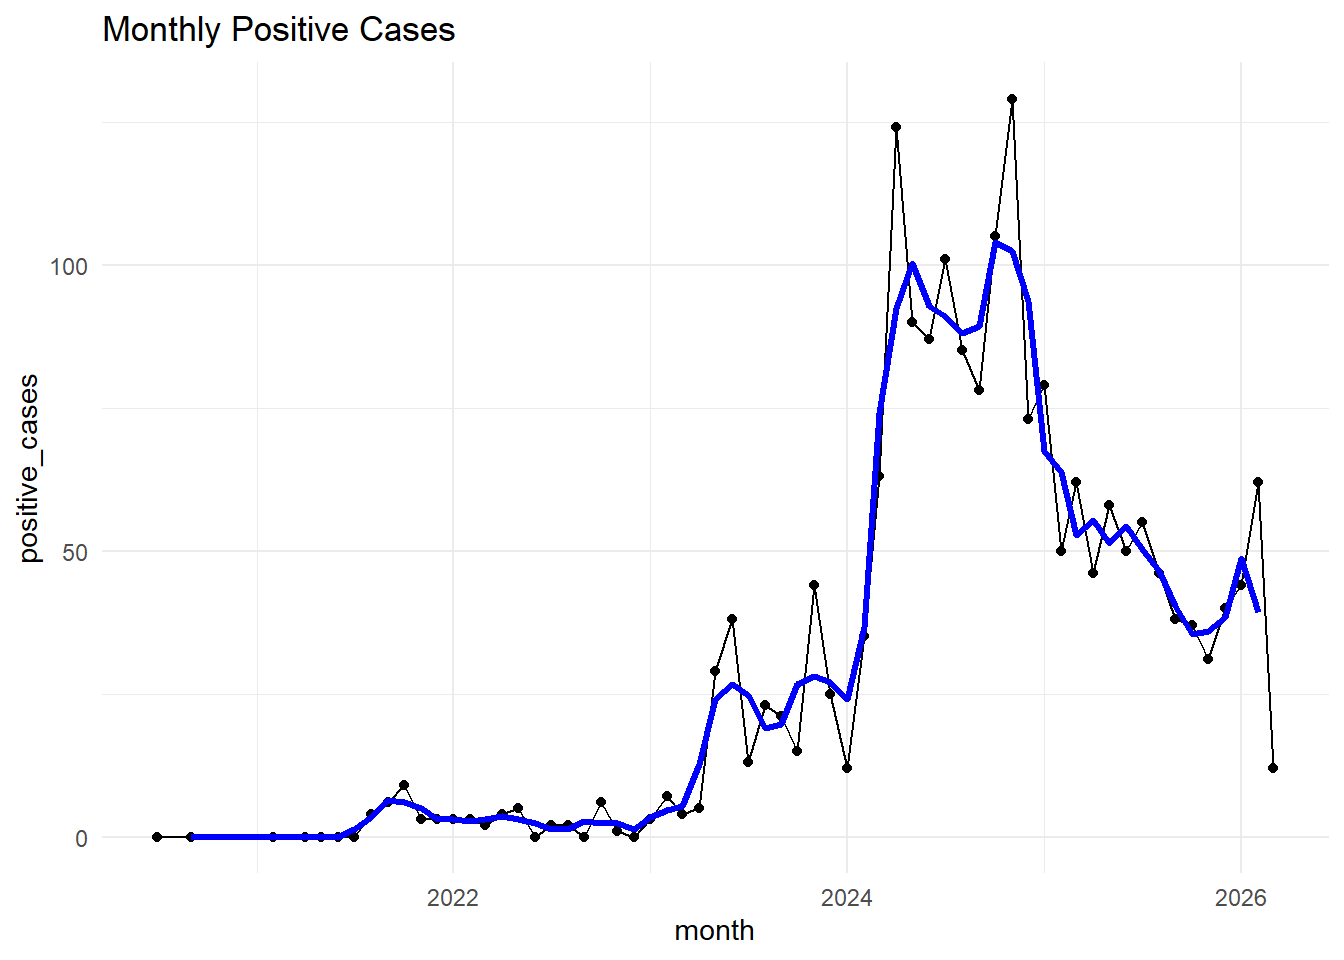
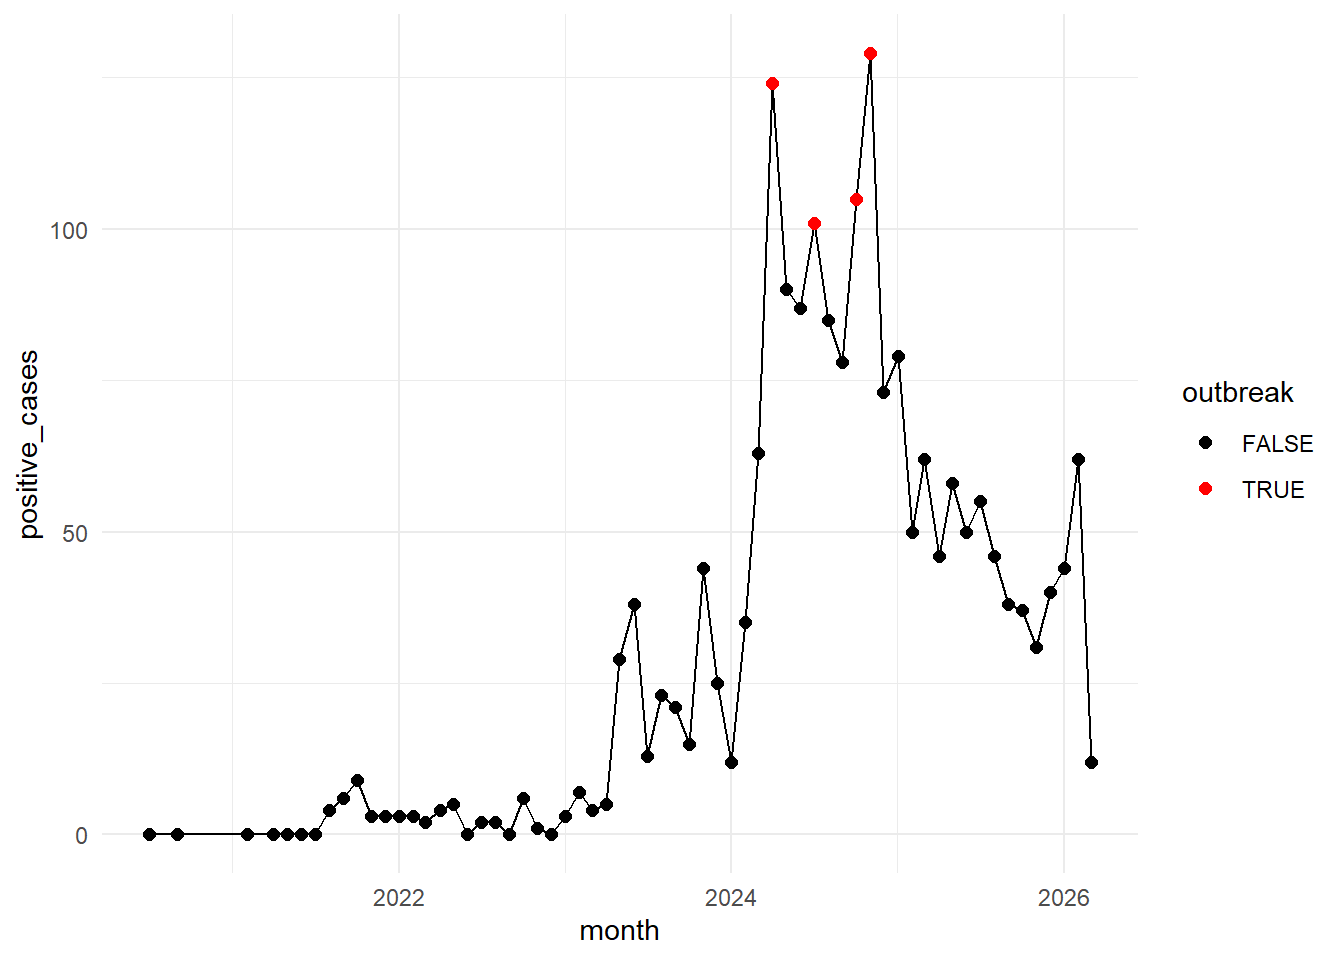
update

diff --git a/Wastewater Analysis.html b/Wastewater Analysis.html
@@ -7,7 +7,7 @@
 <meta name="viewport" content="width=device-width, initial-scale=1.0, user-scalable=yes">
 
 <meta name="author" content="">
-<meta name="dcterms.date" content="2026-05-28">
+<meta name="dcterms.date" content="2026-05-29">
 
 <title>Wastewater_HAV Analysis</title>
 <style>
@@ -99,7 +99,7 @@ pre > code.sourceCode > span > a:first-child::before { text-decoration: underlin
   <li><a href="#intraclass-correlation-for-district_name-variation" id="toc-intraclass-correlation-for-district_name-variation" class="nav-link" data-scroll-target="#intraclass-correlation-for-district_name-variation"><span class="header-section-number">2.2.2</span> Intraclass Correlation for District_name Variation</a></li>
   <li><a href="#intraclass-correlation-for-site_name-variation" id="toc-intraclass-correlation-for-site_name-variation" class="nav-link" data-scroll-target="#intraclass-correlation-for-site_name-variation"><span class="header-section-number">2.2.3</span> Intraclass Correlation for site_name Variation</a></li>
   </ul></li>
-  <li><a href="#three-level-hierarchical-analysis-based-on-the-selected-modlel" id="toc-three-level-hierarchical-analysis-based-on-the-selected-modlel" class="nav-link" data-scroll-target="#three-level-hierarchical-analysis-based-on-the-selected-modlel"><span class="header-section-number">2.3</span> Three-Level Hierarchical Analysis based on the selected Modlel</a>
+  <li><a href="#hierarchical-analysis-based-on-the-selected-modlel" id="toc-hierarchical-analysis-based-on-the-selected-modlel" class="nav-link" data-scroll-target="#hierarchical-analysis-based-on-the-selected-modlel"><span class="header-section-number">2.3</span> Hierarchical Analysis based on the selected Modlel</a>
   <ul class="collapse">
   <li><a href="#odds-ratios" id="toc-odds-ratios" class="nav-link" data-scroll-target="#odds-ratios"><span class="header-section-number">2.3.1</span> Odds Ratios</a></li>
   <li><a href="#visualization-of-model-results" id="toc-visualization-of-model-results" class="nav-link" data-scroll-target="#visualization-of-model-results"><span class="header-section-number">2.3.2</span> Visualization of Model Results</a></li>
@@ -138,7 +138,7 @@ pre > code.sourceCode > span > a:first-child::before { text-decoration: underlin
     <div>
     <div class="quarto-title-meta-heading">Published</div>
     <div class="quarto-title-meta-contents">
-      <p class="date">May 28, 2026</p>
+      <p class="date">May 29, 2026</p>
     </div>
   </div>
   
@@ -204,7 +204,21 @@ Table&nbsp;1: Summary Statistics
 </section>
 <section id="monthly-positive-trend-epidemic-curve" class="level3" data-number="2.1.2">
 <h3 data-number="2.1.2" class="anchored" data-anchor-id="monthly-positive-trend-epidemic-curve"><span class="header-section-number">2.1.2</span> Monthly positive Trend (Epidemic Curve)</h3>
-<p>As <a href="#fig-moncases" class="quarto-xref">Figure&nbsp;2</a> indicates, the monthly positivity trend of</p>
+<p>As <a href="#fig-moncases" class="quarto-xref">Figure&nbsp;3</a> indicates, the monthly positivity trend of</p>
+<div class="cell">
+<div class="cell-output-display">
+<div id="fig-ptrend" class="quarto-float quarto-figure quarto-figure-center anchored">
+<figure class="quarto-float quarto-float-fig figure">
+<div aria-describedby="fig-ptrend-caption-0ceaefa1-69ba-4598-a22c-09a6ac19f8ca">
+<img src="Wastewater-Analysis_files/figure-html/fig-ptrend-1.png" class="img-fluid figure-img" width="672">
+</div>
+<figcaption class="quarto-float-caption-bottom quarto-float-caption quarto-float-fig" id="fig-ptrend-caption-0ceaefa1-69ba-4598-a22c-09a6ac19f8ca">
+Figure&nbsp;1: Monthly Positivity Trend
+</figcaption>
+</figure>
+</div>
+</div>
+</div>
 </section>
 <section id="positive-by-province-and-district" class="level3" data-number="2.1.3">
 <h3 data-number="2.1.3" class="anchored" data-anchor-id="positive-by-province-and-district"><span class="header-section-number">2.1.3</span> Positive by province and district</h3>
@@ -403,6 +417,7 @@ Table&nbsp;3: Positivity Trend by District
 <h2 data-number="2.2" class="anchored" data-anchor-id="multilevel-logistic-regression"><span class="header-section-number">2.2</span> Multilevel Logistic Regression</h2>
 <section id="intraclass-correlation-for-site_province-variation" class="level3" data-number="2.2.1">
 <h3 data-number="2.2.1" class="anchored" data-anchor-id="intraclass-correlation-for-site_province-variation"><span class="header-section-number">2.2.1</span> Intraclass Correlation for site_province Variation</h3>
+<p>An intraclass correlation coefficient (ICC) of 0.033 means that about 3.3% of the total variance in the HAV is attributable to differences between site_province, while about 96.7% is due to differences within groups (individual-level variation).</p>
 <div class="cell">
 <div class="cell-output cell-output-stdout">
 <pre><code># Intraclass Correlation Coefficient
@@ -414,6 +429,7 @@ Table&nbsp;3: Positivity Trend by District
 </section>
 <section id="intraclass-correlation-for-district_name-variation" class="level3" data-number="2.2.2">
 <h3 data-number="2.2.2" class="anchored" data-anchor-id="intraclass-correlation-for-district_name-variation"><span class="header-section-number">2.2.2</span> Intraclass Correlation for District_name Variation</h3>
+<p>An intraclass correlation coefficient (ICC) of 0.054 means that about 5.4 % of the total variance in the HAV is attributable to differences between district level.</p>
 <div class="cell">
 <div class="cell-output cell-output-stdout">
 <pre><code># Intraclass Correlation Coefficient
@@ -425,6 +441,8 @@ Table&nbsp;3: Positivity Trend by District
 </section>
 <section id="intraclass-correlation-for-site_name-variation" class="level3" data-number="2.2.3">
 <h3 data-number="2.2.3" class="anchored" data-anchor-id="intraclass-correlation-for-site_name-variation"><span class="header-section-number">2.2.3</span> Intraclass Correlation for site_name Variation</h3>
+<p>An intraclass correlation coefficient (ICC) of 0.095 means that about 9.5 % of the total variance in the HAV is attributable to differences between district level.</p>
+<p>Overall:</p>
 <div class="cell">
 <div class="cell-output cell-output-stdout">
 <pre><code># Intraclass Correlation Coefficient
@@ -436,7 +454,7 @@ Table&nbsp;3: Positivity Trend by District
 <ul>
 <li><p>A mixed-effects logistic regression with a random intercept for province and district showed that variation across them (province-level ICC ≈ 3.3%, and district level ICC ≈ 5.4%), indicating some clustering of the outcome within provinces and districts.</p></li>
 <li><p>Relatively the variation is higher in site_name level (ICC ≈ 9.5%)</p></li>
-<li><p><a href="#tbl-mlrim" class="quarto-xref">Table&nbsp;4</a> indicates, model2; the three level mixed effects model better fits the data.</p></li>
+<li><p><a href="#tbl-mlrim" class="quarto-xref">Table&nbsp;4</a> indicates, model4; the three level mixed effects model better fits the data.</p></li>
 </ul>
 <div id="tbl-mlrim" class="cell quarto-float quarto-figure quarto-figure-center anchored">
 <figure class="quarto-float quarto-float-tbl figure">
@@ -454,9 +472,9 @@ model2 17 7547.032</code></pre>
 </div>
 </section>
 </section>
-<section id="three-level-hierarchical-analysis-based-on-the-selected-modlel" class="level2" data-number="2.3">
-<h2 data-number="2.3" class="anchored" data-anchor-id="three-level-hierarchical-analysis-based-on-the-selected-modlel"><span class="header-section-number">2.3</span> Three-Level Hierarchical Analysis based on the selected Modlel</h2>
-<p>From the advanced three level hierarchical modeling <a href="#tbl-m3lr" class="quarto-xref">Table&nbsp;5</a></p>
+<section id="hierarchical-analysis-based-on-the-selected-modlel" class="level2" data-number="2.3">
+<h2 data-number="2.3" class="anchored" data-anchor-id="hierarchical-analysis-based-on-the-selected-modlel"><span class="header-section-number">2.3</span> Hierarchical Analysis based on the selected Modlel</h2>
+<p>From the advanced three level hierarchical modeling <a href="#tbl-m3lr" class="quarto-xref">Table&nbsp;5</a>, a generalized linear mixed model with a random intercept for site was fitted to assess geographic predictors of HAV positivity. Site-level clustering was low (ICC ≈ ). Significant district-level differences were observed, with Buffalo City MM associated with lower odds of HAV positivity and Frances Baard DM associated with substantially higher odds. Province-level effects were not statistically significant after adjustment. The model exhibited rank deficiency due to collinearity between district and province variables.</p>
 <div id="tbl-m3lr" class="cell quarto-float quarto-figure quarto-figure-center anchored">
 <figure class="quarto-float quarto-float-tbl figure">
 <figcaption class="quarto-float-caption-top quarto-float-caption quarto-float-tbl" id="tbl-m3lr-caption-0ceaefa1-69ba-4598-a22c-09a6ac19f8ca">
@@ -625,7 +643,7 @@ Table&nbsp;6: Three level Multilevel Estimated Odds Ratio (OR)
 </section>
 <section id="visualization-of-model-results" class="level3" data-number="2.3.2">
 <h3 data-number="2.3.2" class="anchored" data-anchor-id="visualization-of-model-results"><span class="header-section-number">2.3.2</span> Visualization of Model Results</h3>
-<p>Visualization plot <a href="#fig-mr3" class="quarto-xref">Figure&nbsp;1</a></p>
+<p>Visualization plot <a href="#fig-mr3" class="quarto-xref">Figure&nbsp;2</a></p>
 <div class="cell">
 <div class="cell-output-display">
 <div id="fig-mr3" class="quarto-float quarto-figure quarto-figure-center anchored">
@@ -634,7 +652,7 @@ Table&nbsp;6: Three level Multilevel Estimated Odds Ratio (OR)
 <img src="Wastewater-Analysis_files/figure-html/fig-mr3-1.png" class="img-fluid figure-img" width="672">
 </div>
 <figcaption class="quarto-float-caption-bottom quarto-float-caption quarto-float-fig" id="fig-mr3-caption-0ceaefa1-69ba-4598-a22c-09a6ac19f8ca">
-Figure&nbsp;1: Visualization of three-level Model Results
+Figure&nbsp;2: Visualization of three-level Model Results
 </figcaption>
 </figure>
 </div>
@@ -643,6 +661,9 @@ Figure&nbsp;1: Visualization of three-level Model Results
 </section>
 <section id="model-diagnostics" class="level3" data-number="2.3.3">
 <h3 data-number="2.3.3" class="anchored" data-anchor-id="model-diagnostics"><span class="header-section-number">2.3.3</span> Model Diagnostics</h3>
+<ul>
+<li>Residual diagnostics indicated mild deviations from the expected residual distribution, although no significant overdispersion or strong outlier effects were detected. Remaining structure in residuals suggests that additional predictors, particularly temporal effects, may improve model fit.</li>
+</ul>
 <div class="cell">
 <div class="cell-output cell-output-stdout">
 <pre><code>[1] FALSE</code></pre>
@@ -650,14 +671,14 @@ Figure&nbsp;1: Visualization of three-level Model Results
 <div class="cell-output-display">
 <div>
 <figure class="figure">
-<p><img src="Wastewater-Analysis_files/figure-html/unnamed-chunk-12-1.png" class="img-fluid figure-img" width="672"></p>
+<p><img src="Wastewater-Analysis_files/figure-html/unnamed-chunk-11-1.png" class="img-fluid figure-img" width="672"></p>
 </figure>
 </div>
 </div>
 <div class="cell-output-display">
 <div>
 <figure class="figure">
-<p><img src="Wastewater-Analysis_files/figure-html/unnamed-chunk-12-2.png" class="img-fluid figure-img" width="672"></p>
+<p><img src="Wastewater-Analysis_files/figure-html/unnamed-chunk-11-2.png" class="img-fluid figure-img" width="672"></p>
 </figure>
 </div>
 </div>
@@ -673,7 +694,7 @@ alternative hypothesis: two.sided</code></pre>
 <div class="cell-output-display">
 <div>
 <figure class="figure">
-<p><img src="Wastewater-Analysis_files/figure-html/unnamed-chunk-12-3.png" class="img-fluid figure-img" width="672"></p>
+<p><img src="Wastewater-Analysis_files/figure-html/unnamed-chunk-11-3.png" class="img-fluid figure-img" width="672"></p>
 </figure>
 </div>
 </div>
@@ -696,7 +717,7 @@ frequency of outliers (expected: 0.00796812749003984 )
 </section>
 <section id="time-trend-analysis" class="level2" data-number="2.4">
 <h2 data-number="2.4" class="anchored" data-anchor-id="time-trend-analysis"><span class="header-section-number">2.4</span> Time Trend Analysis</h2>
-<p>Monthly hav case over time <a href="#fig-moncases" class="quarto-xref">Figure&nbsp;2</a> shows a clear shift from very low hav case counts in 2020/2021 to 2022 to a major surge beginning in early 2024, followed by a gradual decline with continued variability through 2025-2026.</p>
+<p>Monthly hav case over time <a href="#fig-moncases" class="quarto-xref">Figure&nbsp;3</a> shows a clear shift from very low hav case counts in 2020/2021 to 2022 to a major surge beginning in early 2024, followed by a gradual decline with continued variability through 2025-2026.</p>
 <ul>
 <li>Structural change beginning around 2023.A major epidemic wave in 2024.</li>
 <li>Transition in to a lower but still persistent transmission level afterward.</li>
@@ -714,7 +735,7 @@ frequency of outliers (expected: 0.00796812749003984 )
 <img src="Wastewater-Analysis_files/figure-html/fig-moncases-1.png" class="img-fluid figure-img" width="672">
 </div>
 <figcaption class="quarto-float-caption-bottom quarto-float-caption quarto-float-fig" id="fig-moncases-caption-0ceaefa1-69ba-4598-a22c-09a6ac19f8ca">
-Figure&nbsp;2: Monthly hav case over time
+Figure&nbsp;3: Monthly hav case over time
 </figcaption>
 </figure>
 </div>
@@ -722,11 +743,14 @@ Figure&nbsp;2: Monthly hav case over time
 </div>
 <section id="add-moving-average-line" class="level3" data-number="2.4.1">
 <h3 data-number="2.4.1" class="anchored" data-anchor-id="add-moving-average-line"><span class="header-section-number">2.4.1</span> Add Moving Average line</h3>
+<ul>
+<li>The monthly positivity trend demonstrated substantial temporal variation, with a marked increase during 2024 followed by a gradual decline. The moving-average curve suggested a nonlinear temporal pattern.</li>
+</ul>
 <div class="cell">
 <div class="cell-output-display">
 <div>
 <figure class="figure">
-<p><img src="Wastewater-Analysis_files/figure-html/unnamed-chunk-14-1.png" class="img-fluid figure-img" width="672"></p>
+<p><img src="Wastewater-Analysis_files/figure-html/unnamed-chunk-13-1.png" class="img-fluid figure-img" width="672"></p>
 </figure>
 </div>
 </div>
@@ -734,11 +758,14 @@ Figure&nbsp;2: Monthly hav case over time
 </section>
 <section id="detect-outbreaks" class="level3" data-number="2.4.2">
 <h3 data-number="2.4.2" class="anchored" data-anchor-id="detect-outbreaks"><span class="header-section-number">2.4.2</span> Detect Outbreaks</h3>
+<ul>
+<li>Points doted by red line detected as outbreak at the time of 2024.</li>
+</ul>
 <div class="cell">
 <div class="cell-output-display">
 <div>
 <figure class="figure">
-<p><img src="Wastewater-Analysis_files/figure-html/unnamed-chunk-15-1.png" class="img-fluid figure-img" width="672"></p>
+<p><img src="Wastewater-Analysis_files/figure-html/unnamed-chunk-14-1.png" class="img-fluid figure-img" width="672"></p>
 </figure>
 </div>
 </div>
@@ -751,7 +778,7 @@ Figure&nbsp;2: Monthly hav case over time
 <section id="time-series-analysis-after-areal-aggregation" class="level2" data-number="2.5">
 <h2 data-number="2.5" class="anchored" data-anchor-id="time-series-analysis-after-areal-aggregation"><span class="header-section-number">2.5</span> Time Series Analysis after areal Aggregation</h2>
 <p>Creating Model data from the original dataset</p>
-<p>Monthly hav case over time <a href="#fig-moncases1" class="quarto-xref">Figure&nbsp;3</a> shows a clear shift from very low hav case counts in 2020/2021 to 2022 to a major surge beginning in early 2024, followed by a gradual decline with continued variability through 2025-2026.</p>
+<p>Monthly hav case over time <a href="#fig-moncases1" class="quarto-xref">Figure&nbsp;4</a> shows a clear shift from very low hav case counts in 2020/2021 to 2022 to a major surge beginning in early 2024, followed by a gradual decline with continued variability through 2025-2026.</p>
 <ul>
 <li>Structural change beginning around 2023.A major epidemic wave in 2024.</li>
 <li>Transition in to a lower but still persistent transmission level afterward.</li>
@@ -768,7 +795,7 @@ Figure&nbsp;2: Monthly hav case over time
 <img src="Wastewater-Analysis_files/figure-html/fig-moncases1-1.png" class="img-fluid figure-img" width="672">
 </div>
 <figcaption class="quarto-float-caption-bottom quarto-float-caption quarto-float-fig" id="fig-moncases1-caption-0ceaefa1-69ba-4598-a22c-09a6ac19f8ca">
-Figure&nbsp;3: Monthly hav case over time-1
+Figure&nbsp;4: Monthly hav case over time-1
 </figcaption>
 </figure>
 </div>
@@ -780,7 +807,7 @@ Figure&nbsp;3: Monthly hav case over time-1
 <div class="cell-output-display">
 <div>
 <figure class="figure">
-<p><img src="Wastewater-Analysis_files/figure-html/unnamed-chunk-18-1.png" class="img-fluid figure-img" width="672"></p>
+<p><img src="Wastewater-Analysis_files/figure-html/unnamed-chunk-17-1.png" class="img-fluid figure-img" width="672"></p>
 </figure>
 </div>
 </div>
@@ -792,7 +819,7 @@ Figure&nbsp;3: Monthly hav case over time-1
 <div class="cell-output-display">
 <div>
 <figure class="figure">
-<p><img src="Wastewater-Analysis_files/figure-html/unnamed-chunk-19-1.png" class="img-fluid figure-img" width="672"></p>
+<p><img src="Wastewater-Analysis_files/figure-html/unnamed-chunk-18-1.png" class="img-fluid figure-img" width="672"></p>
 </figure>
 </div>
 </div>
@@ -804,7 +831,7 @@ Figure&nbsp;3: Monthly hav case over time-1
 <div class="cell-output-display">
 <div>
 <figure class="figure">
-<p><img src="Wastewater-Analysis_files/figure-html/unnamed-chunk-21-1.png" class="img-fluid figure-img" width="672"></p>
+<p><img src="Wastewater-Analysis_files/figure-html/unnamed-chunk-20-1.png" class="img-fluid figure-img" width="672"></p>
 </figure>
 </div>
 </div>
@@ -813,7 +840,7 @@ Figure&nbsp;3: Monthly hav case over time-1
 <div class="cell-output-display">
 <div>
 <figure class="figure">
-<p><img src="Wastewater-Analysis_files/figure-html/unnamed-chunk-24-1.png" class="img-fluid figure-img" width="672"></p>
+<p><img src="Wastewater-Analysis_files/figure-html/unnamed-chunk-23-1.png" class="img-fluid figure-img" width="672"></p>
 </figure>
 </div>
 </div>
@@ -821,7 +848,7 @@ Figure&nbsp;3: Monthly hav case over time-1
 </section>
 <section id="count-time-series-modeling" class="level3" data-number="2.5.4">
 <h3 data-number="2.5.4" class="anchored" data-anchor-id="count-time-series-modeling"><span class="header-section-number">2.5.4</span> Count Time Series Modeling</h3>
-<p>Trend of monthly positive cases <a href="#fig-ttcases" class="quarto-xref">Figure&nbsp;4</a></p>
+<p>Trend of monthly positive cases <a href="#fig-ttcases" class="quarto-xref">Figure&nbsp;5</a></p>
 <div class="cell">
 <div class="cell-output-display">
 <div id="fig-ttcases" class="quarto-float quarto-figure quarto-figure-center anchored">
@@ -830,7 +857,7 @@ Figure&nbsp;3: Monthly hav case over time-1
 <img src="Wastewater-Analysis_files/figure-html/fig-ttcases-1.png" class="img-fluid figure-img" width="672">
 </div>
 <figcaption class="quarto-float-caption-bottom quarto-float-caption quarto-float-fig" id="fig-ttcases-caption-0ceaefa1-69ba-4598-a22c-09a6ac19f8ca">
-Figure&nbsp;4: Monthly Positive Cases
+Figure&nbsp;5: Monthly Positive Cases
 </figcaption>
 </figure>
 </div>
@@ -2639,7 +2666,7 @@ Table&nbsp;13: Negative Binomial Time-Series Models comparison
 <div class="cell-output-display">
 <div>
 <figure class="figure">
-<p><img src="Wastewater-Analysis_files/figure-html/unnamed-chunk-26-1.png" class="img-fluid figure-img" width="672"></p>
+<p><img src="Wastewater-Analysis_files/figure-html/unnamed-chunk-25-1.png" class="img-fluid figure-img" width="672"></p>
 </figure>
 </div>
 </div>
